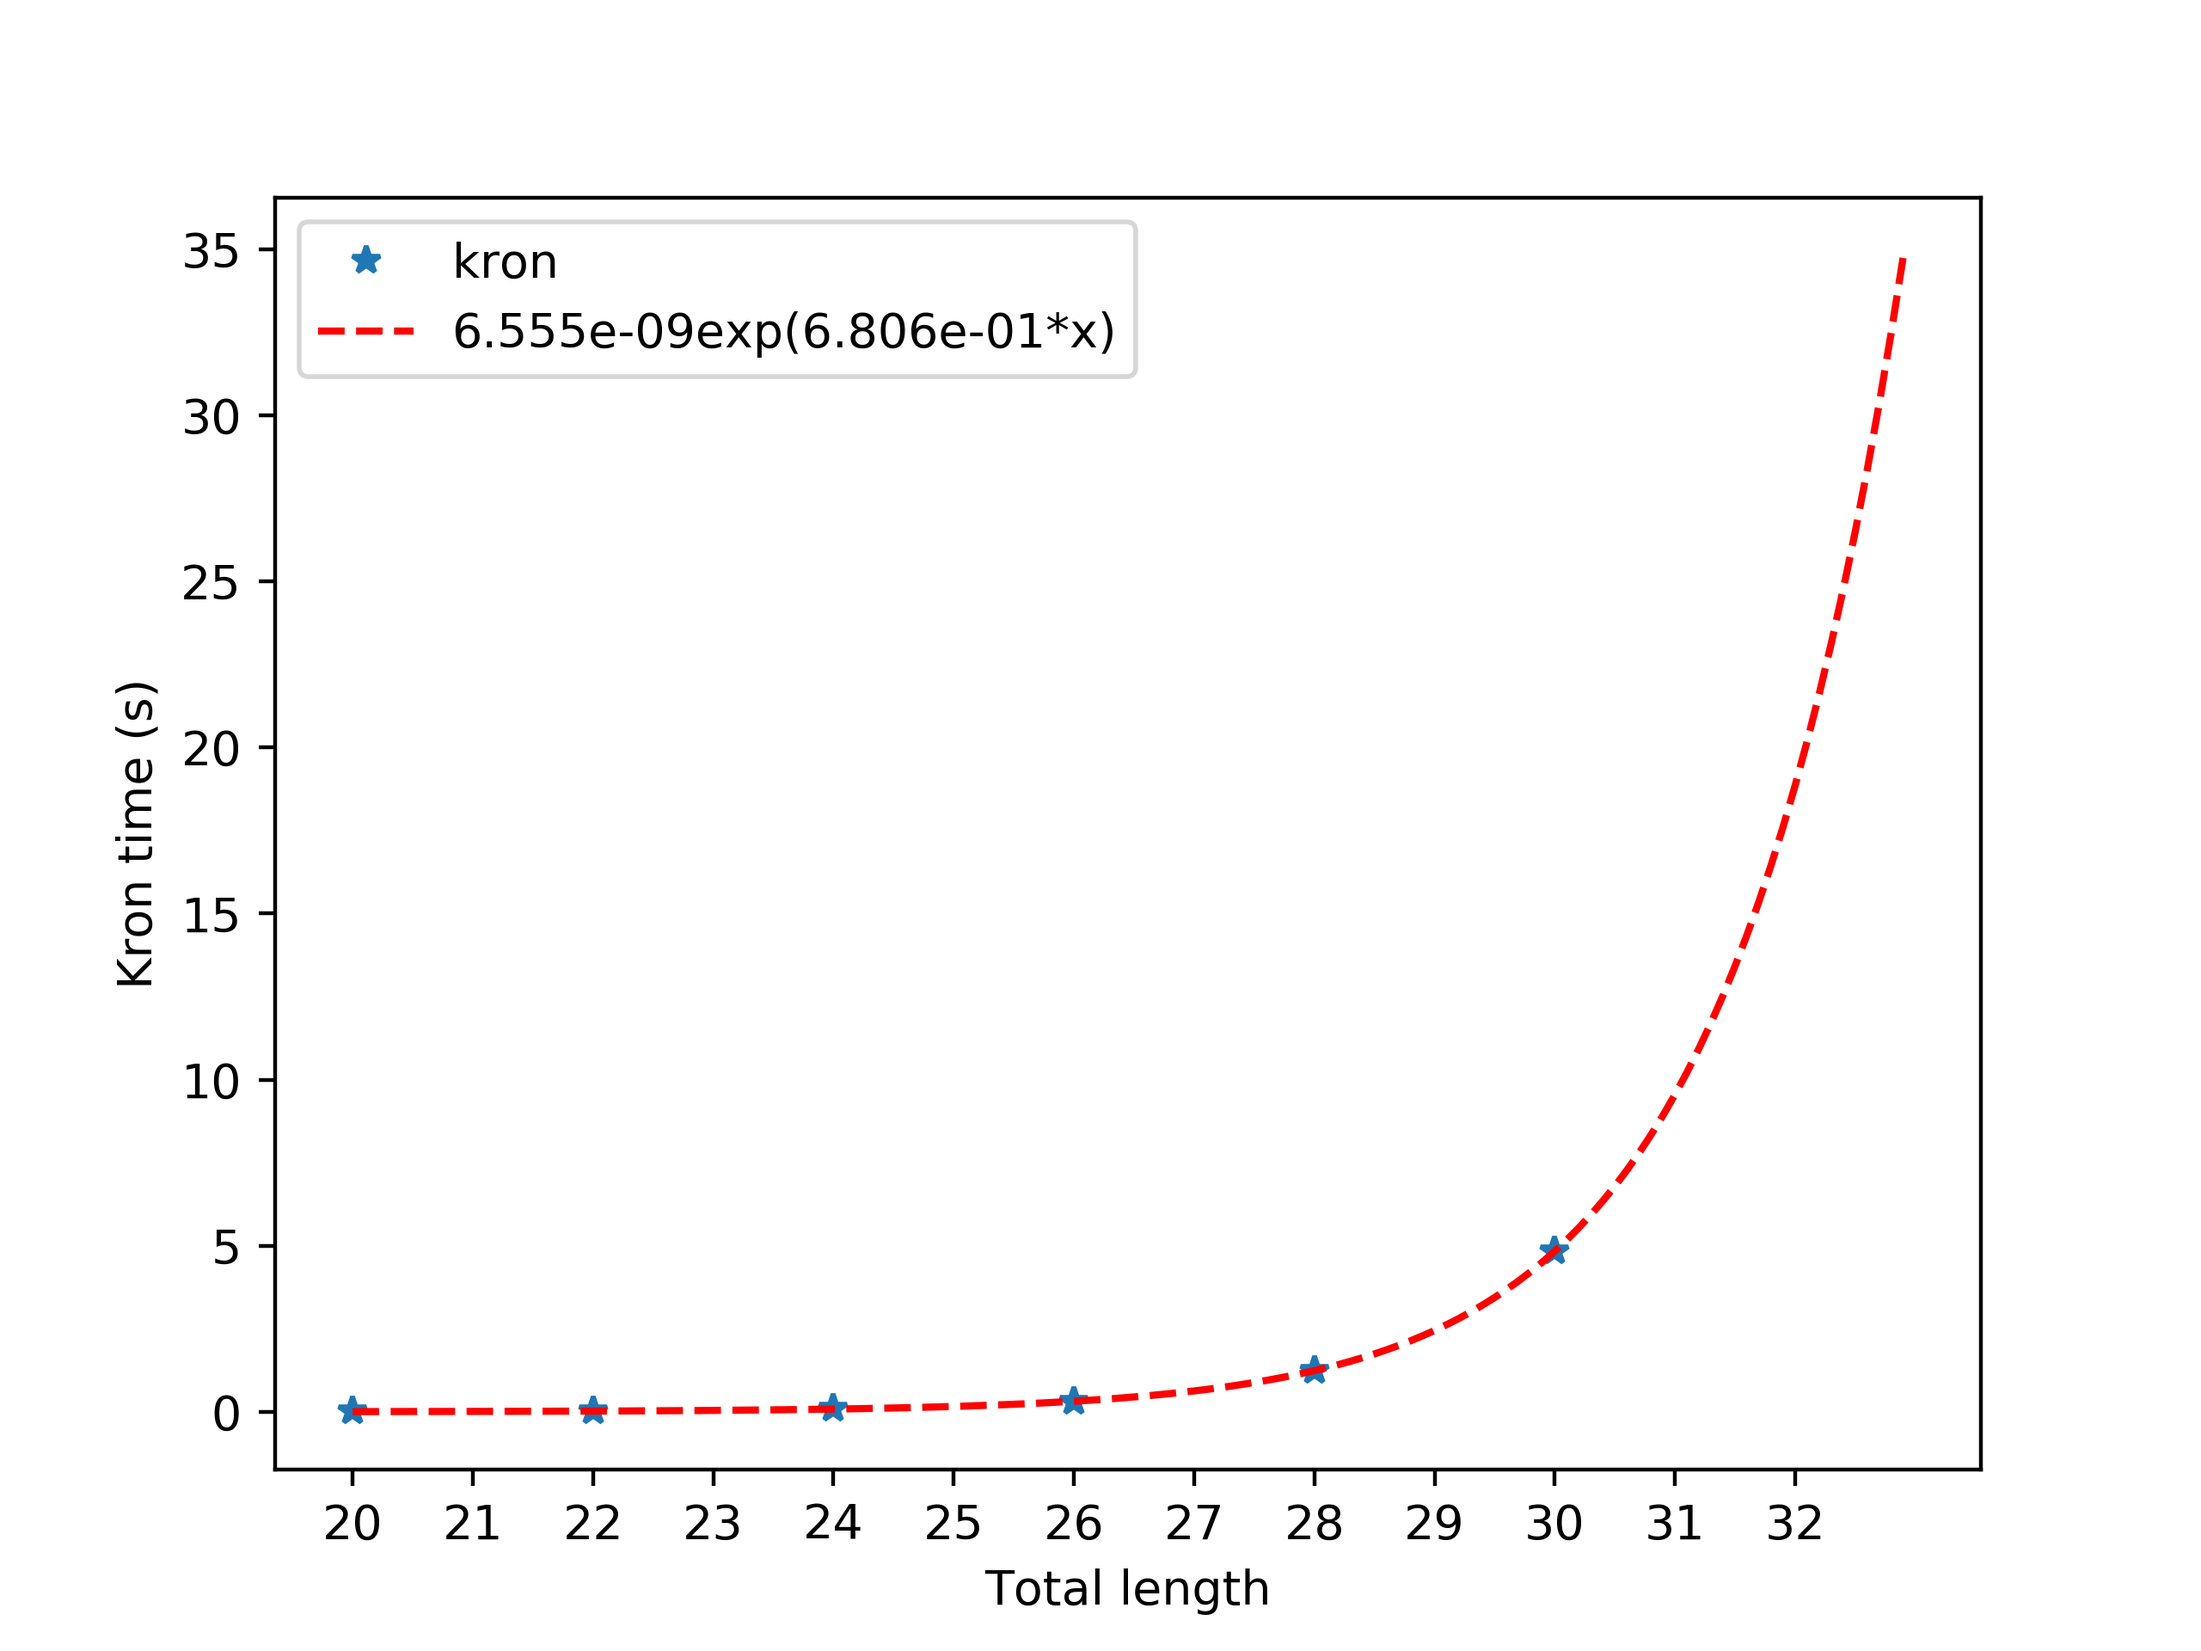
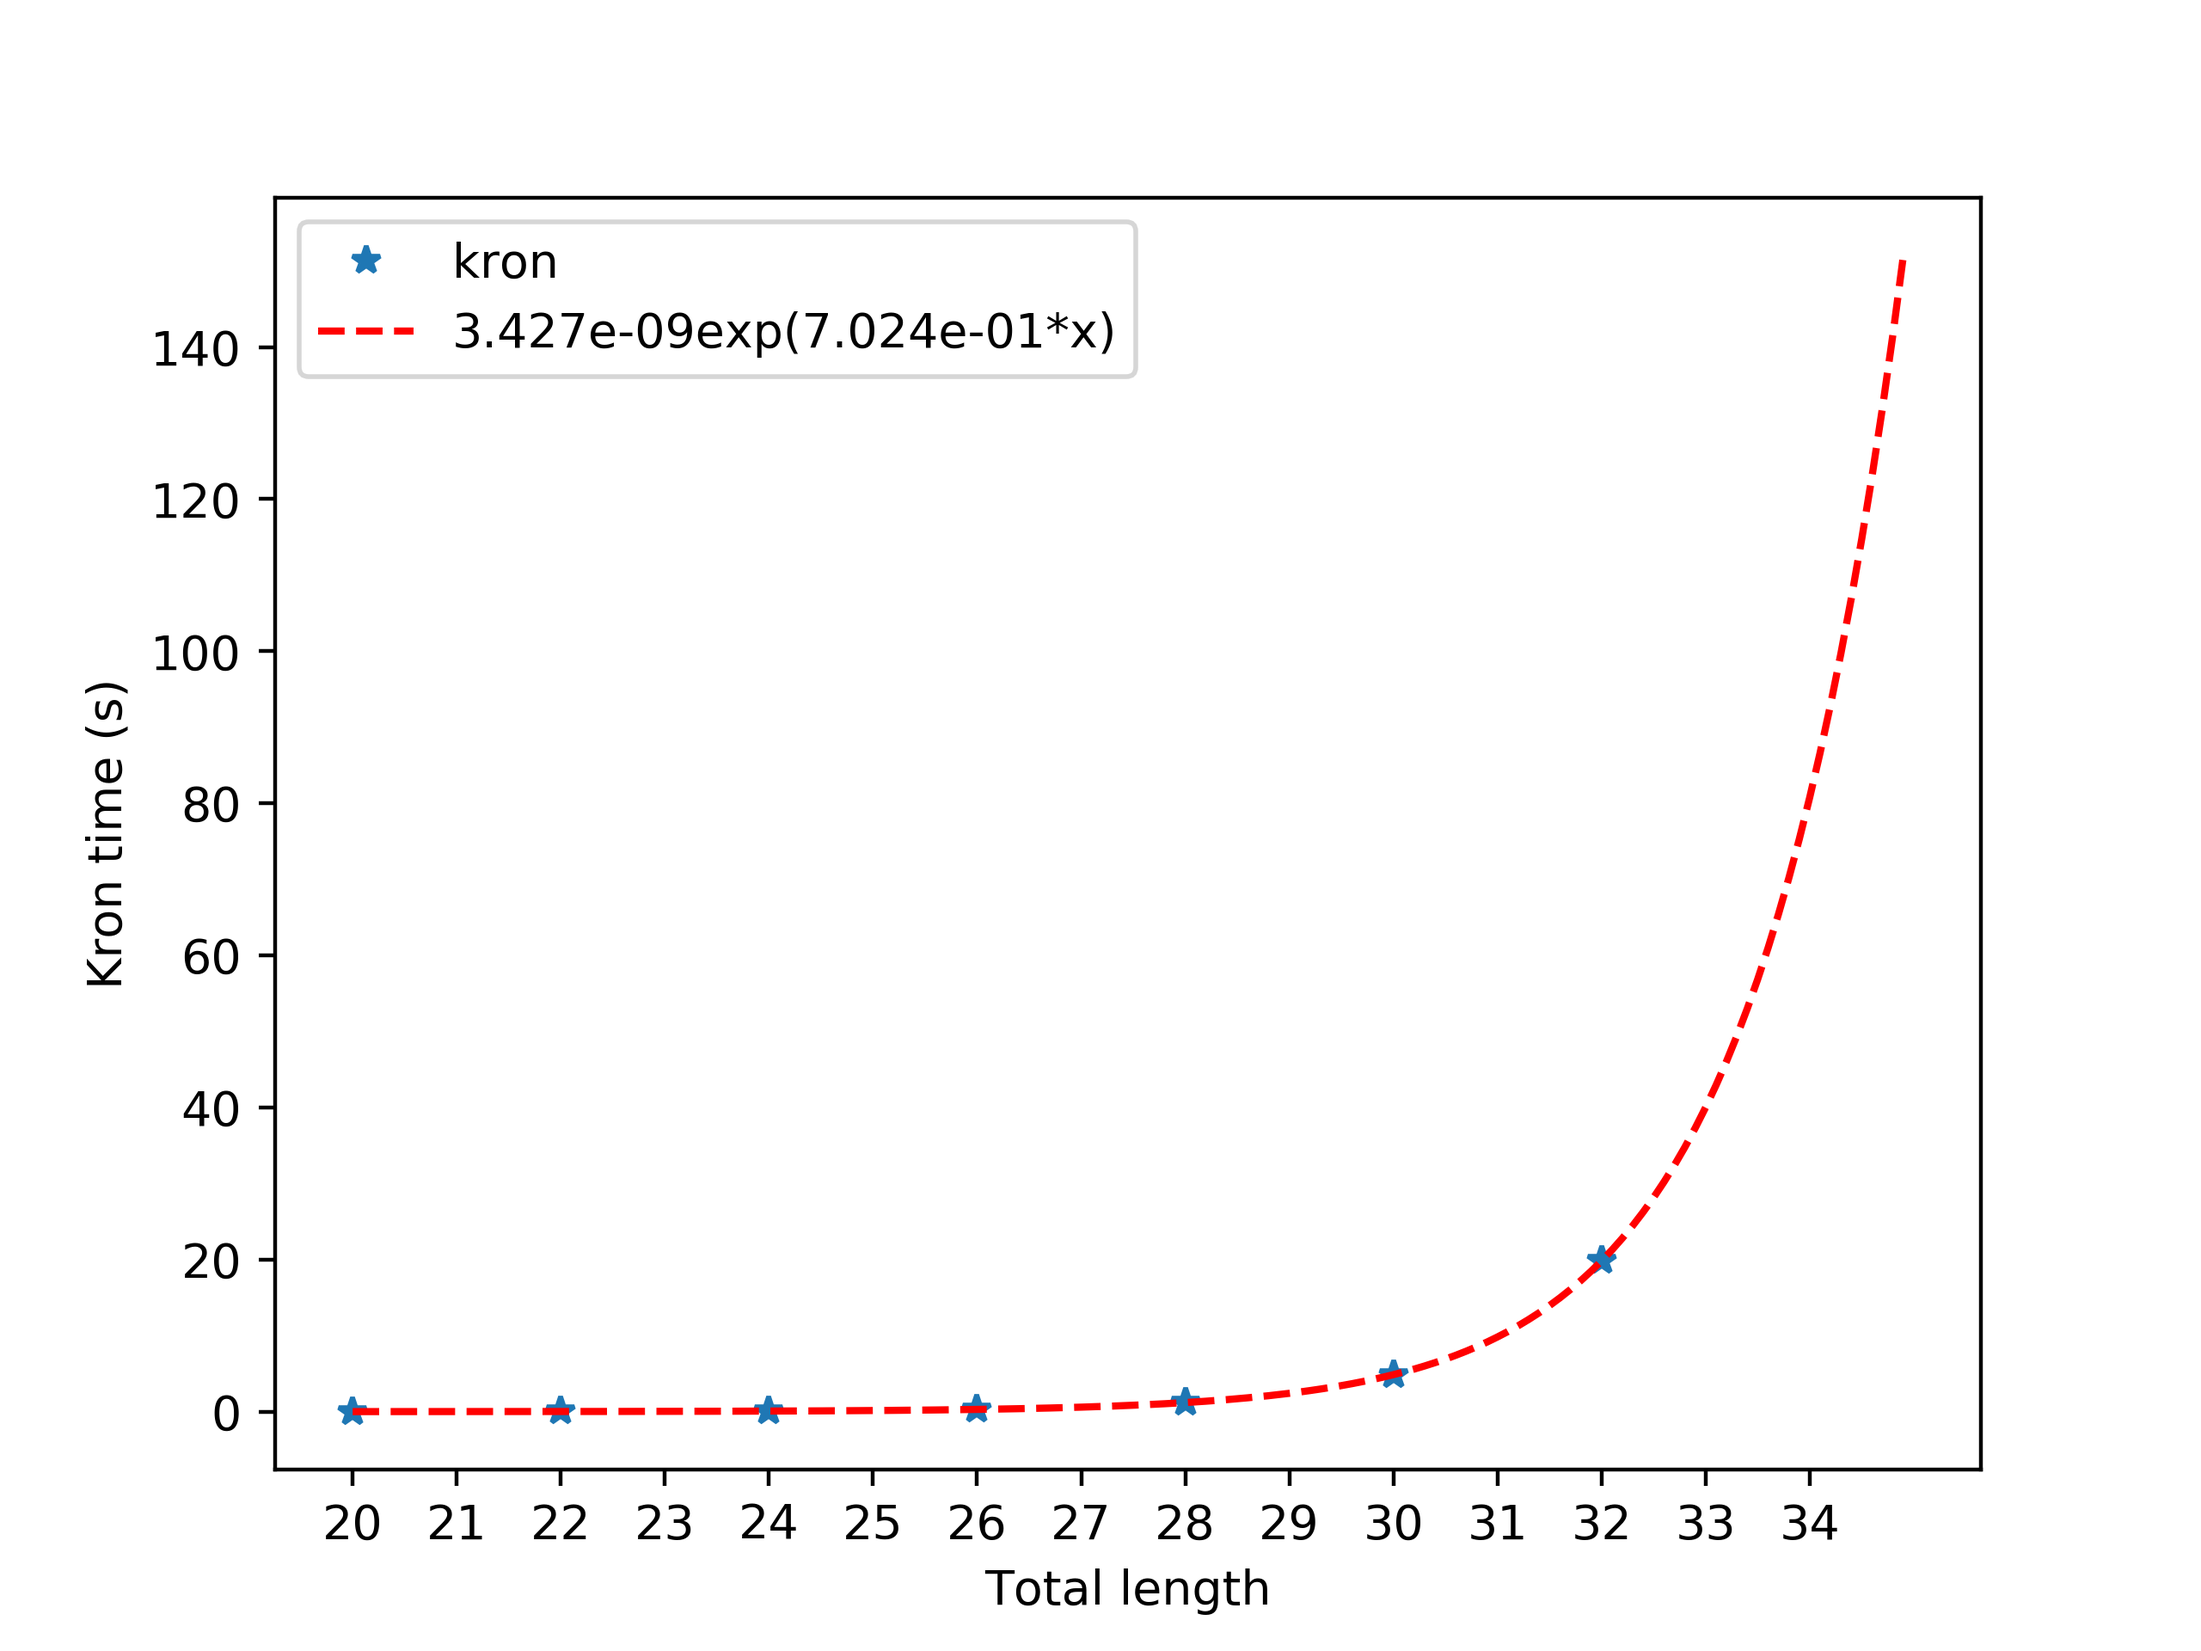
checking kron scale

diff --git a/scalability/kron_test.py b/scalability/kron_test.py
@@ -6,7 +6,7 @@ from scipy import optimize
 def exp_func(x, a, b):
     return a * np.exp(b*x)
 
-num_qubits = range(20,31,2)
+num_qubits = range(20,33,2)
 times = []
 for num_qubit in num_qubits:
     arr_len = int(num_qubit/2)
